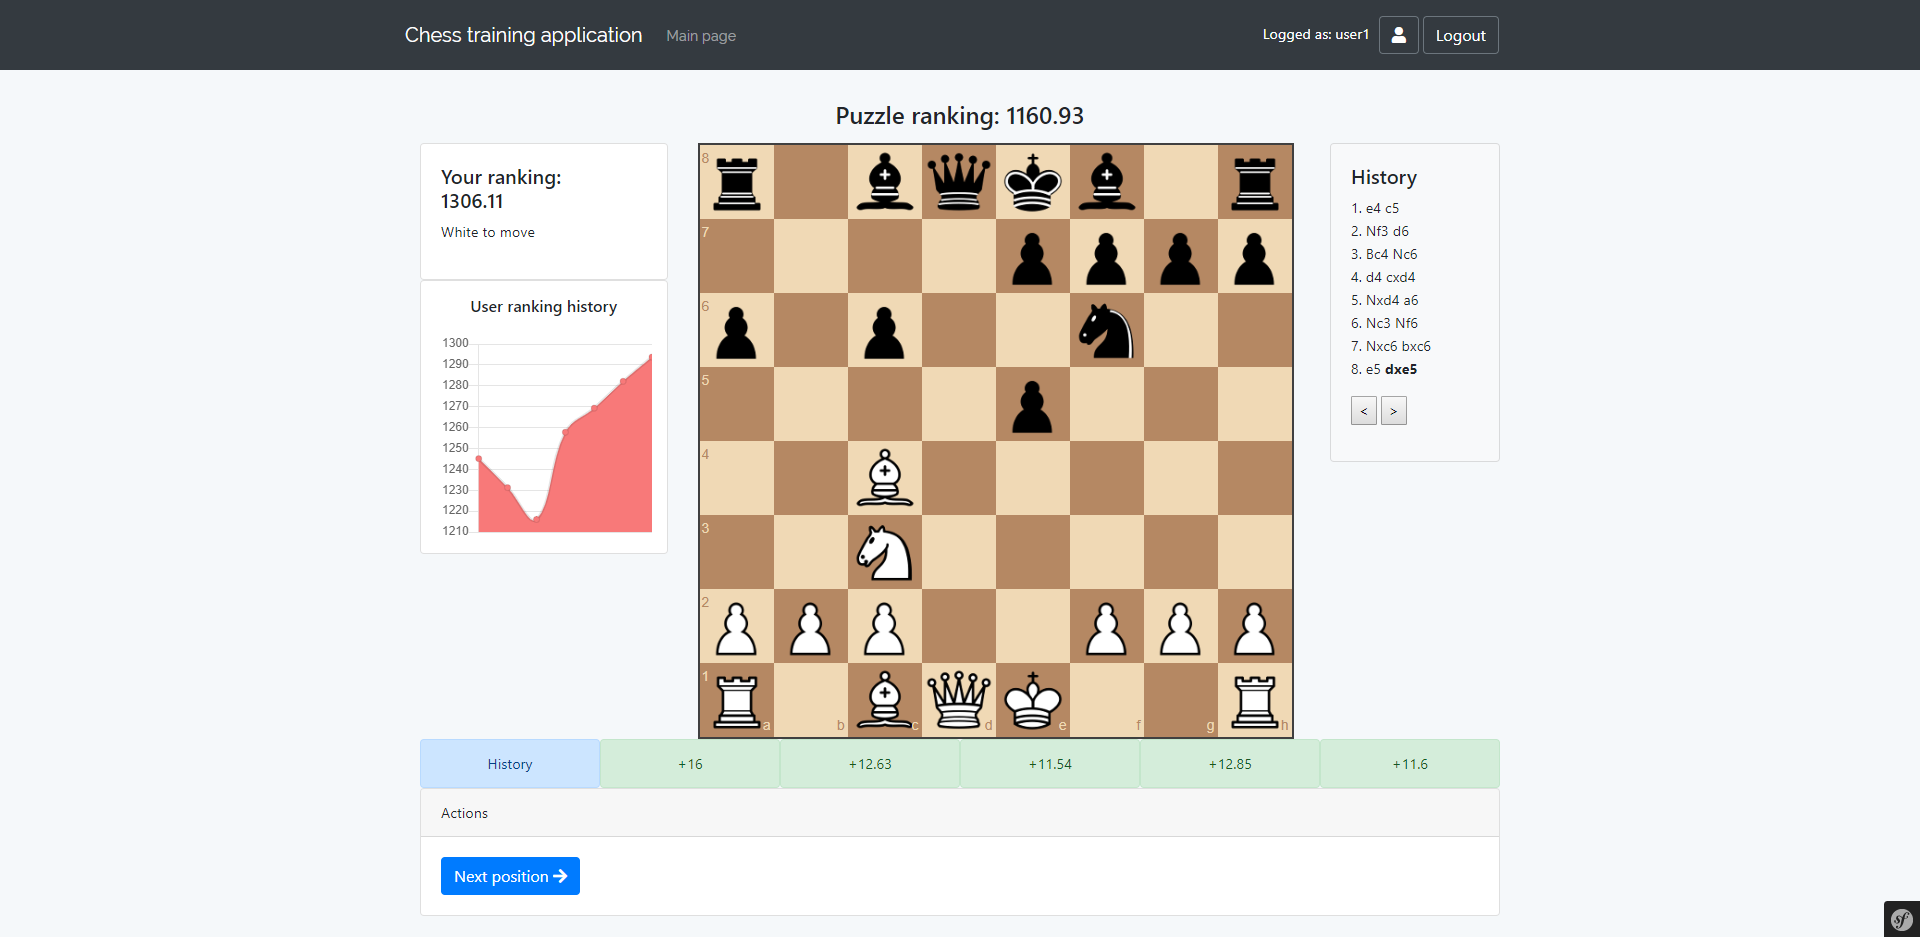
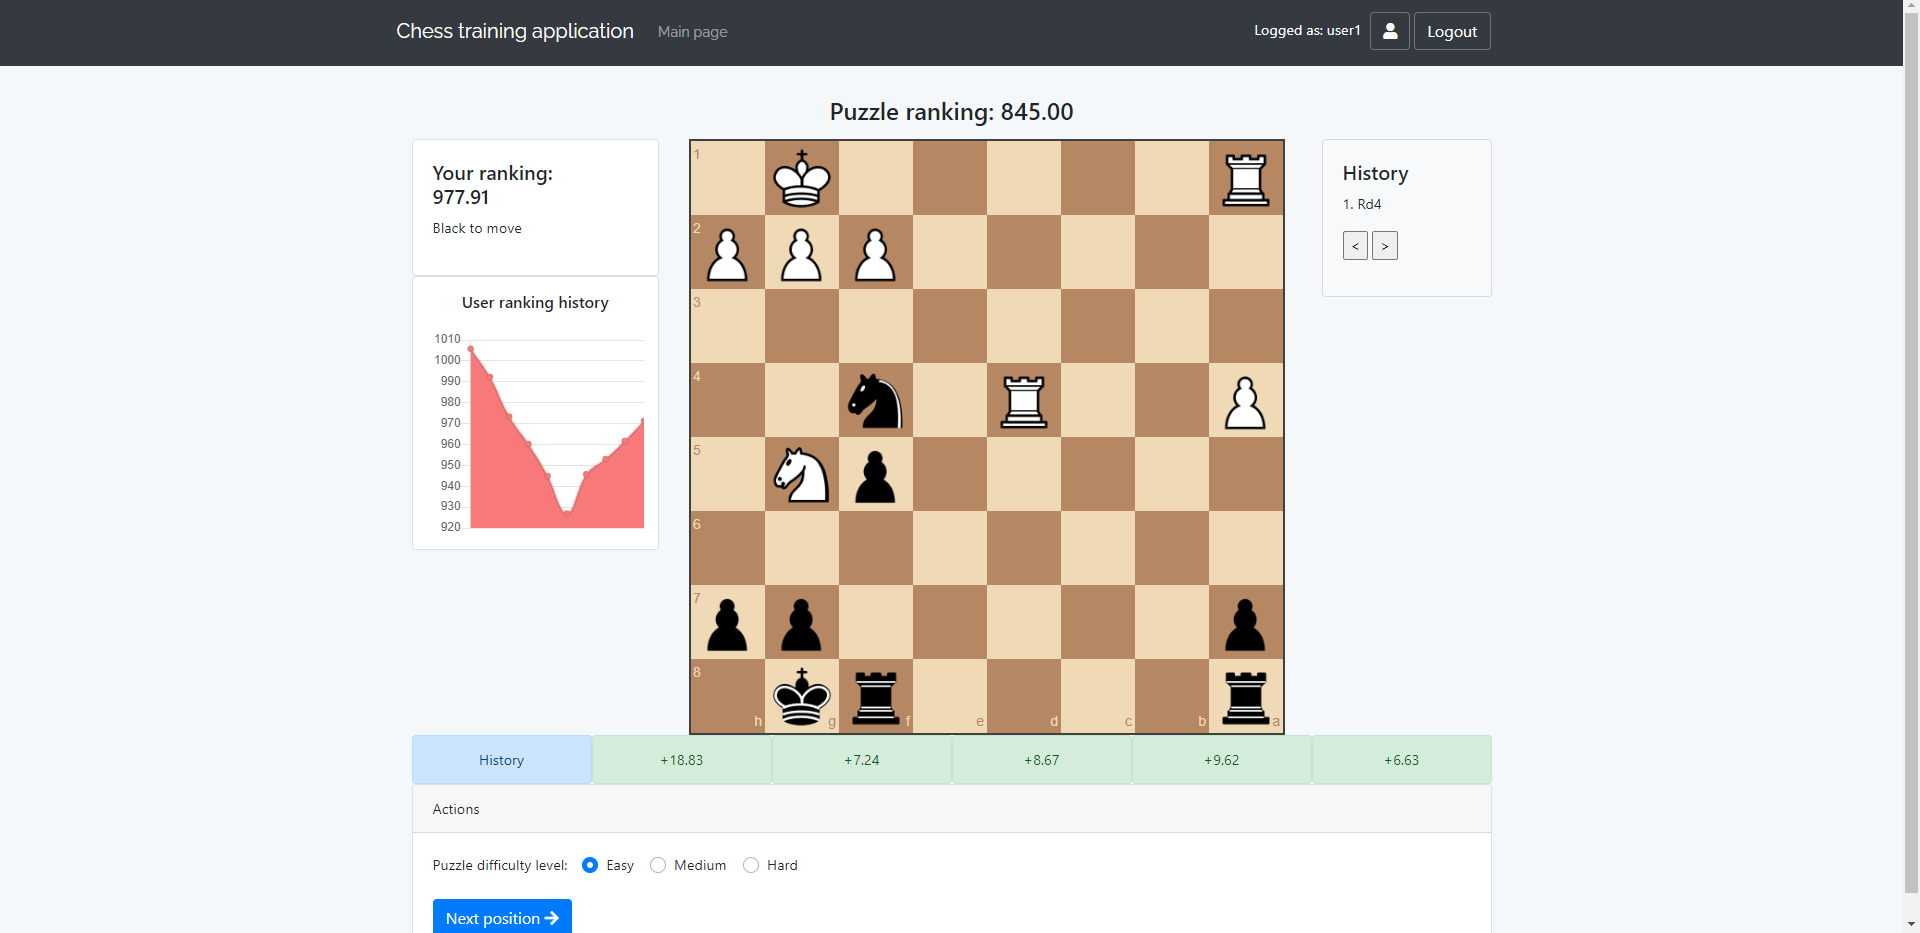
- added choosing puzzle difficulty level

diff --git a/assets/js/components/nextPosition.vue b/assets/js/components/nextPosition.vue
@@ -1,12 +1,47 @@
 <template>
-<button type="button" class="btn btn-primary" @click="$emit('getposition')">Next position <i class="fas fa-arrow-right"></i></button>
+  <div>
+    <div class="row">
+      <label class="difficulty-level-label">Puzzle difficulty level: </label>
+      <div class="custom-control custom-radio custom-control-inline">
+        <input type="radio" v-on:change="difficultyChanged" v-model="puzzleDifficulty" value="easy" id="customRadioInline1" name="customRadioInline" class="custom-control-input">
+        <label class="custom-control-label" for="customRadioInline1">Easy</label>
+      </div>
+      <div class="custom-control custom-radio custom-control-inline">
+        <input type="radio" v-on:change="difficultyChanged" v-model="puzzleDifficulty" value="medium" id="customRadioInline2" name="customRadioInline" class="custom-control-input">
+        <label class="custom-control-label" for="customRadioInline2">Medium</label>
+      </div>
+      <div class="custom-control custom-radio custom-control-inline">
+        <input type="radio" v-on:change="difficultyChanged" v-model="puzzleDifficulty" value="hard" id="customRadioInline3" name="customRadioInline" class="custom-control-input">
+        <label class="custom-control-label" for="customRadioInline3">Hard</label>
+      </div>
+    </div>
+    <div class="row">
+      <button type="button" class="btn btn-primary next-position-button" @click="$emit('getposition')">Next position <i class="fas fa-arrow-right"></i></button>
+      <show-solution-component @showsolution="showsolution"></show-solution-component>
+    </div>
+  </div>
 </template>
 
 <script>
-export default{
-  data: () => ({
+import store from '../store/store.js';
+import * as Func from "../modules/functions";
+import showSolutionComponent from "./showSolutionComponent";
 
-  })
+export default{
+  components: {
+    'show-solution-component': showSolutionComponent,
+  },
+  data: () => ({
+    puzzleDifficulty: 'medium',
+  }),
+  methods: {
+    difficultyChanged() {
+      store.commit('changePuzzleDifficulty', this.puzzleDifficulty);
+    },
+    showsolution() {
+      Func.showSolutionFunc();
+    },
+  },
 }
 
 </script>

diff --git a/assets/js/chessboard_script.js b/assets/js/chessboard_script.js
@@ -5,7 +5,6 @@ import progressInformationComponent from './components/progressInformationCompon
 import puzzleRankingComponent from './components/puzzleRankingComponent.vue';
 import playerRankingDifference from './components/playerRankingDifferenceComponent.vue';
 import puzzleRankingDifferenceComponent from './components/puzzleRankingDifferenceComponent.vue';
-import showSolutionComponent from './components/showSolutionComponent.vue';
 import playerRankingComponent from './components/playerRankingComponent.vue';
 import PuzzleInformationComponent from './components/puzzleInformationComponent.vue';
 import statusComponent from './components/statusComponent.vue';
@@ -29,7 +28,6 @@ appMainComponent = new Vue({
         'puzzle-ranking-component': puzzleRankingComponent,
         'player-ranking-difference-component': playerRankingDifference,
         'puzzle-ranking-difference-component': puzzleRankingDifferenceComponent,
-        'show-solution-component': showSolutionComponent,
         'player-ranking-component': playerRankingComponent,
         'status-component': statusComponent,
         'line-chart-container': LineChartContainerMini,
@@ -41,9 +39,6 @@ appMainComponent = new Vue({
           store.dispatch('resetPuzzleAndGameValues');
 
           ajaxFunc.getRandomPosition();
-      },
-      showsolution: function() {
-          Func.showSolutionFunc();
       },
       forceRerenderHistory: function () {
             ajaxFunc.getPuzzleHistoryUser();

diff --git a/assets/js/store/store.js b/assets/js/store/store.js
@@ -19,6 +19,7 @@ const store = new Vuex.Store({
         playerRankingValue: null,
         puzzleRankingValue: null,
         puzzleActive: false,
+        puzzleDifficulty: 'medium',
         puzzleId: '',
         userId,
         progressInformationValue: '',
@@ -62,6 +63,7 @@ const store = new Vuex.Store({
         puzzleTimeStart: state => state.puzzleTimeStart,
         puzzleTimeStop: state => state.puzzleTimeStop,
         ratingsDifference: state => state.ratingsDifference,
+        puzzleDifficulty: state => state.puzzleDifficulty,
         getPuzzleElapsedTime: state => {
             var timeDiff = state.puzzleTimeStop - state.puzzleTimeStart; //in ms
             // strip the ms
@@ -152,6 +154,9 @@ const store = new Vuex.Store({
         },
         changeCurrentMove(state, currentMove) {
             state.currentMove = currentMove;
+        },
+        changePuzzleDifficulty (state, puzzleDifficulty) {
+            state.puzzleDifficulty = puzzleDifficulty;
         },
     },
     actions: {

diff --git a/assets/js/modules/ajaxCalls.js b/assets/js/modules/ajaxCalls.js
@@ -50,7 +50,9 @@ export function getRandomPosition() {
     $.LoadingOverlay("show");
 
     axios
-        .get(Routing.generate('api_get_random_position'))
+        .get(Routing.generate('api_get_random_position', {
+            puzzleDifficulty: store.getters.puzzleDifficulty
+        }))
         .then(response => {
             store.dispatch('initNewPosition',{
                 fen: response.data.fen,

diff --git a/assets/js/components/showSolutionComponent.vue b/assets/js/components/showSolutionComponent.vue
@@ -1,5 +1,5 @@
 <template>
-  <button type="button" class="btn btn-primary" @click="$emit('showsolution')" v-if="showSolutionFlag">Show solution <i class="fas fa-info-circle"></i></button>
+      <button type="button" class="btn btn-primary solution-position-button" @click="$emit('showsolution')" v-if="showSolutionFlag">Show solution <i class="fas fa-info-circle"></i></button>
 </template>
 
 <script>

diff --git a/assets/css/custom.css b/assets/css/custom.css
@@ -51,3 +51,15 @@
 .history-tab {
     padding-left:0px;
 }
+.difficulty-level-label {
+    padding-left: 15px;
+    padding-right: 15px;
+}
+.next-position-button {
+    margin-left: 15px;
+    margin-top: 15px;
+}
+.solution-position-button {
+    margin-left: 15px;
+    margin-top: 15px;
+}

diff --git a/src/AppBundle/Repository/PositionRepository.php b/src/AppBundle/Repository/PositionRepository.php
@@ -6,9 +6,17 @@ use AppBundle\Entity\Position;
 
 class PositionRepository extends EntityRepository
 {
-    public function findRandomPositionNativeQuery()
+    public function findRandomPositionNativeQuery($puzzleDifficulty)
     {
-    	$sql = 'SELECT id_position from positions ORDER BY RAND() LIMIT 1';
+        if ($puzzleDifficulty == 'easy') {
+            $sql = 'SELECT id_position from positions p, fos_user u WHERE (p.puzzle_ranking <= (u.ranking - 100)) ORDER BY RAND() LIMIT 1';
+        }
+        if ($puzzleDifficulty == 'medium') {
+            $sql = 'SELECT id_position from positions p, fos_user u WHERE (p.puzzle_ranking BETWEEN (u.ranking - 100) AND (u.ranking + 100)) ORDER BY RAND() LIMIT 1';
+        }
+        if ($puzzleDifficulty == 'hard') {
+            $sql = 'SELECT id_position from positions p, fos_user u WHERE (p.puzzle_ranking BETWEEN (u.ranking - 50) AND (u.ranking + 200)) ORDER BY RAND() LIMIT 1';
+        }
 
     	$em = $this->getEntityManager();
     	$stmt = $em->getConnection()->prepare($sql);

diff --git a/src/AppBundle/Controller/Api/PositionController.php b/src/AppBundle/Controller/Api/PositionController.php
@@ -27,12 +27,14 @@ class PositionController extends AbstractFOSRestController
      * @Rest\Get("/random-position/", name="api_get_random_position", options={"expose"=true})
      * @return View
      */
-    public function getRandomPositionAction() : View
+    public function getRandomPositionAction(Request $request) : View
     {
+        $puzzleDifficulty = $request->get('puzzleDifficulty');
+
         /**
          * @var Position
          */
-    	$randPosition = $this->positionService->getRandomPosition();
+    	$randPosition = $this->positionService->getRandomPosition($puzzleDifficulty);
 
     	$array = [
             'fen' => $randPosition->getFen(),

diff --git a/src/AppBundle/Service/PositionService.php b/src/AppBundle/Service/PositionService.php
@@ -16,9 +16,9 @@ class PositionService
     /**
      * @return Position mixed|null
      */
-    public function getRandomPosition()
+    public function getRandomPosition($puzzleDifficulty)
     {
-        $randomPosition = $this->em->getRepository(Position::class)->findRandomPositionNativeQuery();
+        $randomPosition = $this->em->getRepository(Position::class)->findRandomPositionNativeQuery($puzzleDifficulty);
 
         return $randomPosition;
     }

diff --git a/README.md b/README.md
@@ -22,6 +22,7 @@ Project is created with:
 
 ## Features
 * Solving chess puzzles
+* Choosing puzzle difficulty level  
 * Computing rating difference for puzzle and user using ELO ranking system.
 * Displaying graphs using Chart.js/vue-chartjs libraries
 * Displaying time spent on solving a puzzle
